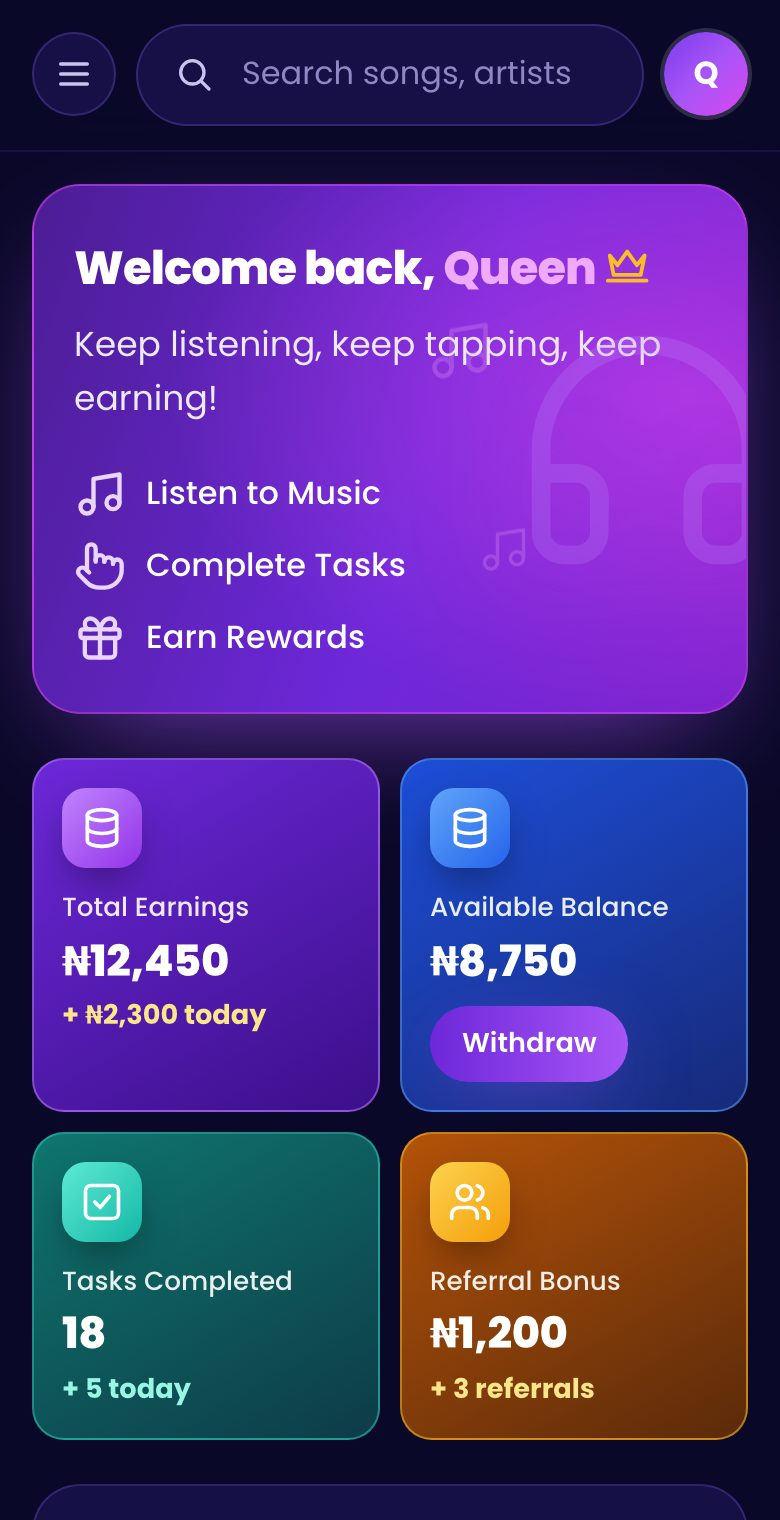
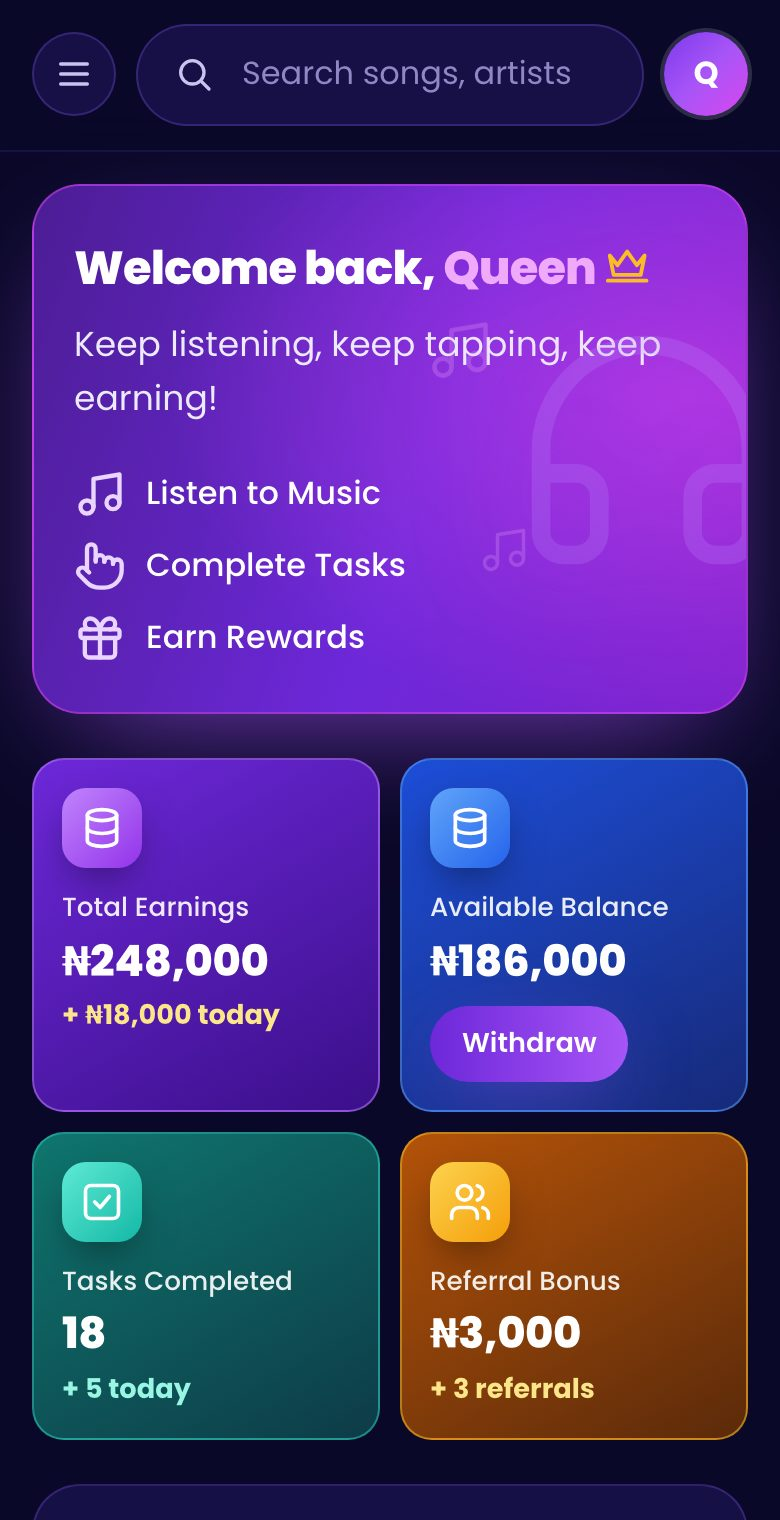
Add files via upload

Changed region(s): [[0.0923, 0.6184, 0.3692, 0.6803], [0.5846, 0.6184, 0.8, 0.6493], [0.5846, 0.8658, 0.7385, 0.8967]]

diff --git a/js/dashboard.js b/js/dashboard.js
@@ -35,30 +35,33 @@
      Catalogue
      ========================================================= */
   const LISTEN_SECONDS = 15;
+  const SONG_REWARD = 2000;
+  const TASK_REWARD = 2000;
+  const REFERRAL_BONUS = 1000;
 
   const SONGS = [
-    { id: 'calm',     title: 'Calm Vibes',    genre: 'Lo-fi Beats',  artist: 'DJ Lumi',       art: 'art-sunset',  glyph: 'headphones', reward: 5, root: 57, bpm: 78 },
-    { id: 'energy',   title: 'Good Energy',   genre: 'Afro Beats',   artist: 'Kola Waves',    art: 'art-palms',   glyph: 'music',      reward: 5, root: 62, bpm: 104 },
-    { id: 'better',   title: 'Better Days',   genre: 'Pop Mix',      artist: 'Ada Nova',      art: 'art-neon',    glyph: 'bolt',       reward: 5, root: 60, bpm: 112 },
-    { id: 'freedom',  title: 'Freedom',       genre: 'Chill Vibes',  artist: 'Seyi Blue',     art: 'art-ocean',   glyph: 'heart',      reward: 5, root: 55, bpm: 84 },
-    { id: 'lagos',    title: 'Lagos Nights',  genre: 'Amapiano',     artist: 'Log Drum Kid',  art: 'art-night',   glyph: 'star',       reward: 6, root: 58, bpm: 112 },
-    { id: 'sweet',    title: 'Sweet Melody',  genre: 'R&B Soul',     artist: 'Temi Rose',     art: 'art-rose',    glyph: 'heart',      reward: 5, root: 63, bpm: 90 },
-    { id: 'golden',   title: 'Golden Hour',   genre: 'Highlife',     artist: 'Oga Guitar',    art: 'art-gold',    glyph: 'music',      reward: 6, root: 64, bpm: 100 },
-    { id: 'breeze',   title: 'Island Breeze', genre: 'Reggae Mix',   artist: 'Palm & Sand',   art: 'art-emerald', glyph: 'headphones', reward: 5, root: 59, bpm: 88 }
+    { id: 'calm',     title: 'Calm Vibes',    genre: 'Lo-fi Beats',  artist: 'DJ Lumi',       art: 'art-sunset',  glyph: 'headphones', reward: SONG_REWARD, root: 57, bpm: 78 },
+    { id: 'energy',   title: 'Good Energy',   genre: 'Afro Beats',   artist: 'Kola Waves',    art: 'art-palms',   glyph: 'music',      reward: SONG_REWARD, root: 62, bpm: 104 },
+    { id: 'better',   title: 'Better Days',   genre: 'Pop Mix',      artist: 'Ada Nova',      art: 'art-neon',    glyph: 'bolt',       reward: SONG_REWARD, root: 60, bpm: 112 },
+    { id: 'freedom',  title: 'Freedom',       genre: 'Chill Vibes',  artist: 'Seyi Blue',     art: 'art-ocean',   glyph: 'heart',      reward: SONG_REWARD, root: 55, bpm: 84 },
+    { id: 'lagos',    title: 'Lagos Nights',  genre: 'Amapiano',     artist: 'Log Drum Kid',  art: 'art-night',   glyph: 'star',       reward: SONG_REWARD, root: 58, bpm: 112 },
+    { id: 'sweet',    title: 'Sweet Melody',  genre: 'R&B Soul',     artist: 'Temi Rose',     art: 'art-rose',    glyph: 'heart',      reward: SONG_REWARD, root: 63, bpm: 90 },
+    { id: 'golden',   title: 'Golden Hour',   genre: 'Highlife',     artist: 'Oga Guitar',    art: 'art-gold',    glyph: 'music',      reward: SONG_REWARD, root: 64, bpm: 100 },
+    { id: 'breeze',   title: 'Island Breeze', genre: 'Reggae Mix',   artist: 'Palm & Sand',   art: 'art-emerald', glyph: 'headphones', reward: SONG_REWARD, root: 59, bpm: 88 }
   ];
 
   const TASKS = [
-    { id: 'tap',     title: 'Tap & Earn Task', desc: 'Tap the button 50 times',     reward: 3,  icon: 'tap',      limit: 5, cta: 'Start' },
-    { id: 'checkin', title: 'Daily Check-in',  desc: 'Login daily and get rewarded', reward: 10, icon: 'calendar', limit: 1, cta: 'Check In' },
-    { id: 'video',   title: 'Watch & Earn',    desc: 'Watch a 10-second clip',       reward: 8,  icon: 'video',    limit: 3, cta: 'Watch' },
-    { id: 'share',   title: 'Share MelodyPay', desc: 'Copy and share your invite link', reward: 5, icon: 'share',  limit: 1, cta: 'Share' }
+    { id: 'tap',     title: 'Tap & Earn Task', desc: 'Tap the button 50 times',     reward: TASK_REWARD, icon: 'tap',      limit: 5, cta: 'Start' },
+    { id: 'checkin', title: 'Daily Check-in',  desc: 'Login daily and get rewarded', reward: TASK_REWARD, icon: 'calendar', limit: 1, cta: 'Check In' },
+    { id: 'video',   title: 'Watch & Earn',    desc: 'Watch a 10-second clip',       reward: TASK_REWARD, icon: 'video',    limit: 3, cta: 'Watch' },
+    { id: 'share',   title: 'Share MelodyPay', desc: 'Copy and share your invite link', reward: TASK_REWARD, icon: 'share',  limit: 1, cta: 'Share' }
   ];
 
   const MILESTONES = [
-    { id: 'songs10', title: 'Music Lover',  desc: 'Listen to 10 songs',       icon: 'headphones', reward: 50,  goal: 10,    value: (s) => s.songsPlayed },
-    { id: 'tasks25', title: 'Task Master',  desc: 'Complete 25 tasks',        icon: 'check',      reward: 100, goal: 25,    value: (s) => s.tasks },
-    { id: 'refs5',   title: 'Influencer',   desc: 'Invite 5 friends',         icon: 'users',      reward: 500, goal: 5,     value: (s) => s.referrals },
-    { id: 'earn15k', title: 'High Earner',  desc: 'Reach ₦15,000 total earnings', icon: 'trophy', reward: 250, goal: 15000, value: (s) => s.total }
+    { id: 'songs10', title: 'Music Lover',  desc: 'Listen to 10 songs',       icon: 'headphones', reward: 5000,  goal: 10,    value: (s) => s.songsPlayed },
+    { id: 'tasks25', title: 'Task Master',  desc: 'Complete 25 tasks',        icon: 'check',      reward: 10000, goal: 25,    value: (s) => s.tasks },
+    { id: 'refs5',   title: 'Influencer',   desc: 'Invite 5 friends',         icon: 'users',      reward: 5000,  goal: 5,     value: (s) => s.referrals },
+    { id: 'earn100k', title: 'High Earner',  desc: 'Reach ₦100,000 total earnings', icon: 'trophy', reward: 10000, goal: 100000, value: (s) => s.total }
   ];
 
   const ACT_META = {
@@ -116,7 +119,7 @@
     if (taskId) state.today.done[taskId] = taskCount(taskId) + 1;
     state.activity.unshift({ type, desc, amount, ts: Date.now() });
     save();
-    toast(`+${naira(amount)} — ${desc.replace(/^You earned ₦\d+ /, '')}`);
+    toast(`+${naira(amount)} — ${desc.replace(/^You earned ₦[\d,]+ /, '')}`);
     refresh(['total', 'balance']);
   }
 
@@ -225,7 +228,7 @@
     if (player.elapsed >= LISTEN_SECONDS) {
       const song = player.song;
       state.songsPlayed += 1;
-      credit(song.reward, 'music', `You earned ₦${song.reward} for listening to "${song.title}"`);
+      credit(song.reward, 'music', `You earned ${naira(song.reward)} for listening to "${song.title}"`);
       stopSong();
       return;
     }
@@ -394,7 +397,7 @@
           const pct = Math.min(100, (v / m.goal) * 100);
           const claimed = state.claimed[m.id];
           const ready = v >= m.goal && !claimed;
-          const fmt = (n) => (m.id === 'earn15k' ? naira(n) : n.toLocaleString());
+          const fmt = (n) => (m.id === 'earn100k' ? naira(n) : n.toLocaleString());
           return `
             <article class="milestone">
               <div class="milestone-top">${icon(m.icon)}<div><b>${m.title}</b><small>${m.desc}</small></div></div>
@@ -432,7 +435,7 @@
     referral: () => {
       const link = referralLink();
       return `
-        <div class="page-title"><div><h1>Referral Program</h1><p>Earn <b class="text-gold">₦200</b> for every friend who joins and completes a task.</p></div></div>
+        <div class="page-title"><div><h1>Referral Program</h1><p>Earn <b class="text-gold">${naira(REFERRAL_BONUS)}</b> for every friend who joins and completes a task.</p></div></div>
         <div class="two-col">
           <section class="panel">
             ${panelHead('share', 'Your invite link', 'Share it on WhatsApp, Instagram or anywhere.')}
@@ -451,18 +454,18 @@
             <ol class="ref-steps">
               <li><span><b>Share your link</b><br/>Send your unique invite link to friends.</span></li>
               <li><span><b>They sign up</b><br/>Your friend creates a free MelodyPay account.</span></li>
-              <li><span><b>You both earn</b><br/>Once they finish their first task, ₦200 lands in your wallet.</span></li>
+              <li><span><b>You both earn</b><br/>Once they finish their first task, ${naira(REFERRAL_BONUS)} lands in your wallet.</span></li>
             </ol>
           </section>
         </div>
         <section class="panel">
           ${panelHead('users', 'Your referrals')}
-          <div class="activity">${state.friends.length ? '' : '<div class="empty">No referrals yet — share your link to start earning ₦200 per friend.</div>'}${state.friends.map((f) => `
+          <div class="activity">${state.friends.length ? '' : '<div class="empty">No referrals yet — share your link to start earning ' + naira(REFERRAL_BONUS) + ' per friend.</div>'}${state.friends.map((f) => `
             <div class="act">
               <span class="act-icon referral">${icon('user')}</span>
               <div><b>${esc(f.name)}</b><span>Joined and completed first task</span></div>
               <span class="time">${relTime(f.joined)}</span>
-              <span class="amt">+ ₦200</span>
+              <span class="amt">+ ${naira(REFERRAL_BONUS)}</span>
             </div>`).join('')}</div>
         </section>`;
     },
@@ -514,7 +517,7 @@
           <details><summary>How do I earn from songs? ${icon('chevron')}</summary><p>Press Play on any song and keep it playing for ${LISTEN_SECONDS} seconds. The reward is added to your wallet automatically.</p></details>
           <details><summary>What is the minimum withdrawal? ${icon('chevron')}</summary><p>You can withdraw once your available balance is at least ₦1,000. Payouts are processed within 24 hours.</p></details>
           <details><summary>Why is a task greyed out? ${icon('chevron')}</summary><p>Each task has a daily limit. Limits reset at midnight, so come back tomorrow for more.</p></details>
-          <details><summary>How do referral bonuses work? ${icon('chevron')}</summary><p>Share your link from the Referral Program page. You earn ₦200 when a friend signs up and completes their first task.</p></details>
+          <details><summary>How do referral bonuses work? ${icon('chevron')}</summary><p>Share your link from the Referral Program page. You earn ${naira(REFERRAL_BONUS)} when a friend signs up and completes their first task.</p></details>
         </div>
       </section>
       <section class="panel">
@@ -590,10 +593,10 @@
     if (!t || taskLeft(t) <= 0) return;
     if (id === 'tap') openTap(t);
     else if (id === 'video') openVideo(t);
-    else if (id === 'checkin') credit(t.reward, 'checkin', `You earned ₦${t.reward} for checking in`, { countsAsTask: true, taskId: id });
+    else if (id === 'checkin') credit(t.reward, 'checkin', `You earned ${naira(t.reward)} for checking in`, { countsAsTask: true, taskId: id });
     else if (id === 'share') {
       copyText(referralLink());
-      credit(t.reward, 'share', `You earned ₦${t.reward} for sharing MelodyPay`, { countsAsTask: true, taskId: id });
+      credit(t.reward, 'share', `You earned ${naira(t.reward)} for sharing MelodyPay`, { countsAsTask: true, taskId: id });
     }
   }
 
@@ -606,6 +609,7 @@
   function openTap(t) {
     tapTask = t;
     taps = 0;
+    $('#tapReward').textContent = naira(t.reward);
     $('#tapGoal').textContent = TAP_GOAL;
     $('#tapGoal2').textContent = TAP_GOAL;
     updateTap();
@@ -636,7 +640,7 @@
       tapTask = null;
       setTimeout(() => {
         closeModal('#tapModal');
-        credit(t.reward, 'tap', `You earned ₦${t.reward} for completing a tap task`, { countsAsTask: true, taskId: t.id });
+        credit(t.reward, 'tap', `You earned ${naira(t.reward)} for completing a tap task`, { countsAsTask: true, taskId: t.id });
       }, 500);
     }
   }
@@ -647,6 +651,7 @@
     const DURATION = 10;
     let elapsed = 0;
     $('#videoBar').style.width = '0';
+    $('#videoReward').textContent = naira(t.reward);
     $('#videoLeft').textContent = `${DURATION}s remaining`;
     openModal('#videoModal');
     clearInterval(videoTimer);
@@ -657,7 +662,7 @@
       if (elapsed >= DURATION) {
         clearInterval(videoTimer);
         closeModal('#videoModal');
-        credit(t.reward, 'video', `You earned ₦${t.reward} for watching a clip`, { countsAsTask: true, taskId: t.id });
+        credit(t.reward, 'video', `You earned ${naira(t.reward)} for watching a clip`, { countsAsTask: true, taskId: t.id });
       }
     }, 250);
   }
@@ -669,7 +674,7 @@
     const m = MILESTONES.find((x) => x.id === id);
     if (!m || state.claimed[id] || m.value(state) < m.goal) return;
     state.claimed[id] = true;
-    credit(m.reward, 'reward', `You earned ₦${m.reward} for "${m.title}"`);
+    credit(m.reward, 'reward', `You earned ${naira(m.reward)} for "${m.title}"`);
   }
 
   function referralCode() {
@@ -695,7 +700,7 @@
     $$('.field-error', form).forEach((e) => (e.textContent = ''));
     $('#wdAvail').textContent = naira(state.balance);
     if (state.bank) { form.bank.value = state.bank.bank; form.account.value = state.bank.account; }
-    const amounts = [1000, 2000, 5000, state.balance].filter((v, i, a) => v >= 1000 && v <= state.balance && a.indexOf(v) === i);
+    const amounts = [5000, 10000, 50000, state.balance].filter((v, i, a) => v >= 1000 && v <= state.balance && a.indexOf(v) === i);
     $('#quickAmounts').innerHTML = amounts.map((v) => `<button type="button" data-amt="${v}">${v === state.balance ? 'Max' : naira(v)}</button>`).join('');
     openModal('#withdrawModal');
   }

diff --git a/index.html b/index.html
@@ -125,19 +125,19 @@
             <div class="feature-icon"><i data-icon="music"></i></div>
             <h3>LISTEN <small>to Music</small></h3>
             <p>Enjoy your favourite songs — Afrobeats, Lo-fi, Pop, Amapiano — and get rewarded for every track you finish.</p>
-            <span class="reward-tag"><span class="coin">₦</span> Up to ₦5 per song</span>
+            <span class="reward-tag"><span class="coin">₦</span> ₦2,000 per song</span>
           </article>
           <article class="feature reveal">
             <div class="feature-icon"><i data-icon="tap"></i></div>
             <h3>TAP <small>Tasks</small></h3>
             <p>Complete simple tasks, watch short videos and check in daily to earn extra rewards on top of your listening.</p>
-            <span class="reward-tag"><span class="coin">₦</span> ₦3 – ₦10 per task</span>
+            <span class="reward-tag"><span class="coin">₦</span> ₦2,000 per task</span>
           </article>
           <article class="feature reveal">
             <div class="feature-icon"><i data-icon="coins"></i></div>
             <h3>EARN <small>Real Money</small></h3>
             <p>Watch your wallet grow and withdraw straight to your Nigerian bank account. Invite friends for bonus cash.</p>
-            <span class="reward-tag"><span class="coin">₦</span> ₦200 per referral</span>
+            <span class="reward-tag"><span class="coin">₦</span> ₦1,000 per referral</span>
           </article>
         </div>
       </div>
@@ -199,22 +199,22 @@
         <div class="calc reveal">
           <div>
             <div class="calc-row">
-              <label for="songs">Songs per day <b id="songsVal">40</b></label>
-              <input type="range" id="songs" min="0" max="200" value="40" />
+              <label for="songs">Songs per day <b id="songsVal">6</b></label>
+              <input type="range" id="songs" min="0" max="50" value="6" />
             </div>
             <div class="calc-row">
-              <label for="tasks">Tap tasks per day <b id="tasksVal">10</b></label>
-              <input type="range" id="tasks" min="0" max="50" value="10" />
+              <label for="tasks">Tap tasks per day <b id="tasksVal">4</b></label>
+              <input type="range" id="tasks" min="0" max="20" value="4" />
             </div>
             <div class="calc-row">
-              <label for="refs">Friends referred per month <b id="refsVal">3</b></label>
-              <input type="range" id="refs" min="0" max="50" value="3" />
+              <label for="refs">Friends referred per month <b id="refsVal">0</b></label>
+              <input type="range" id="refs" min="0" max="50" value="0" />
             </div>
           </div>
           <div class="calc-result">
             <span>Estimated monthly earnings</span>
             <strong class="text-gold" id="calcTotal">₦0</strong>
-            <small>Estimate based on ₦5/song, ₦3/task, ₦10/daily check-in and ₦200/referral.</small>
+            <small>Estimate based on ₦2,000/song, ₦2,000/task and ₦1,000/referral.</small>
           </div>
         </div>
       </div>
@@ -255,7 +255,7 @@
           </details>
           <details>
             <summary>How does the referral program work? <i data-icon="chevron"></i></summary>
-            <p>Share your unique referral link. When a friend signs up and completes their first task, you get ₦200 added to your wallet.</p>
+            <p>Share your unique referral link. When a friend signs up and completes their first task, you get ₦1,000 added to your wallet.</p>
           </details>
         </div>
       </div>

diff --git a/dashboard.html b/dashboard.html
@@ -83,7 +83,7 @@
       <div class="bar"><span id="playerBar"></span></div>
       <small id="playerTime">0:00 / 0:15</small>
     </div>
-    <div class="player-reward"><span class="coin">₦</span><span id="playerReward">+₦5</span></div>
+    <div class="player-reward"><span class="coin">₦</span><span id="playerReward">+₦2,000</span></div>
     <button class="player-btn" id="playerToggle" aria-label="Pause"></button>
     <button class="icon-btn" id="playerClose" aria-label="Stop"><i data-icon="x"></i></button>
   </div>
@@ -126,7 +126,7 @@
     <div class="modal-card center">
       <button class="modal-close" data-close aria-label="Close"><i data-icon="x"></i></button>
       <h2 id="tapTitle">Tap &amp; Earn</h2>
-      <p class="sub">Tap the button <b id="tapGoal">50</b> times to earn <b class="text-gold">₦3</b></p>
+      <p class="sub">Tap the button <b id="tapGoal">50</b> times to earn <b class="text-gold" id="tapReward">₦2,000</b></p>
       <div class="tap-ring" id="tapRing">
         <svg viewBox="0 0 120 120" aria-hidden="true">
           <circle cx="60" cy="60" r="54" class="track" />
@@ -143,7 +143,7 @@
     <div class="modal-card center">
       <button class="modal-close" data-close aria-label="Close"><i data-icon="x"></i></button>
       <h2 id="vidTitle">Watch &amp; Earn</h2>
-      <p class="sub">Watch the full clip to earn <b class="text-gold">₦8</b></p>
+      <p class="sub">Watch the full clip to earn <b class="text-gold" id="videoReward">₦2,000</b></p>
       <div class="video-box">
         <div class="video-eq"><i></i><i></i><i></i><i></i><i></i><i></i><i></i><i></i><i></i></div>
         <span class="video-label">MelodyPay • Featured artist spotlight</span>

diff --git a/js/main.js b/js/main.js
@@ -123,7 +123,7 @@
     function calc() {
       const [songs, tasks, refs] = sliders.map((s) => +s.value);
       sliders.forEach((s) => (document.getElementById(s.id + 'Val').textContent = s.value));
-      const monthly = (songs * 5 + tasks * 3 + 10) * 30 + refs * 200;
+      const monthly = (songs * 2000 + tasks * 2000) * 30 + refs * 1000;
       document.getElementById('calcTotal').textContent = naira(monthly);
     }
     sliders.forEach((s) => s.addEventListener('input', calc));
